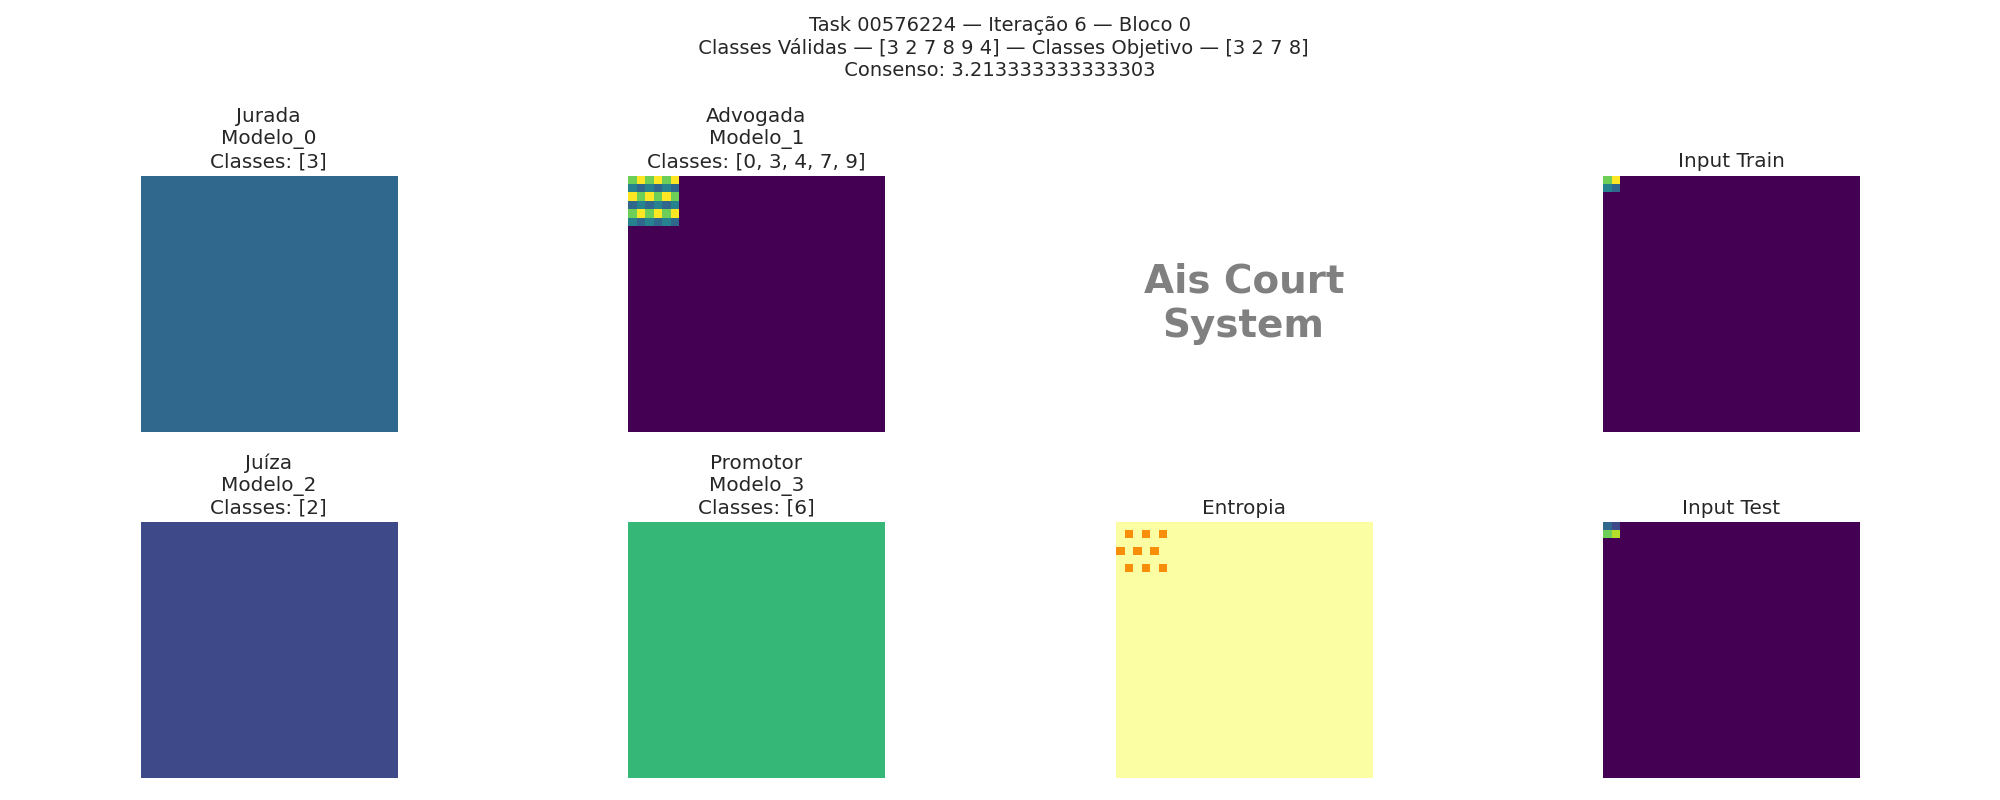
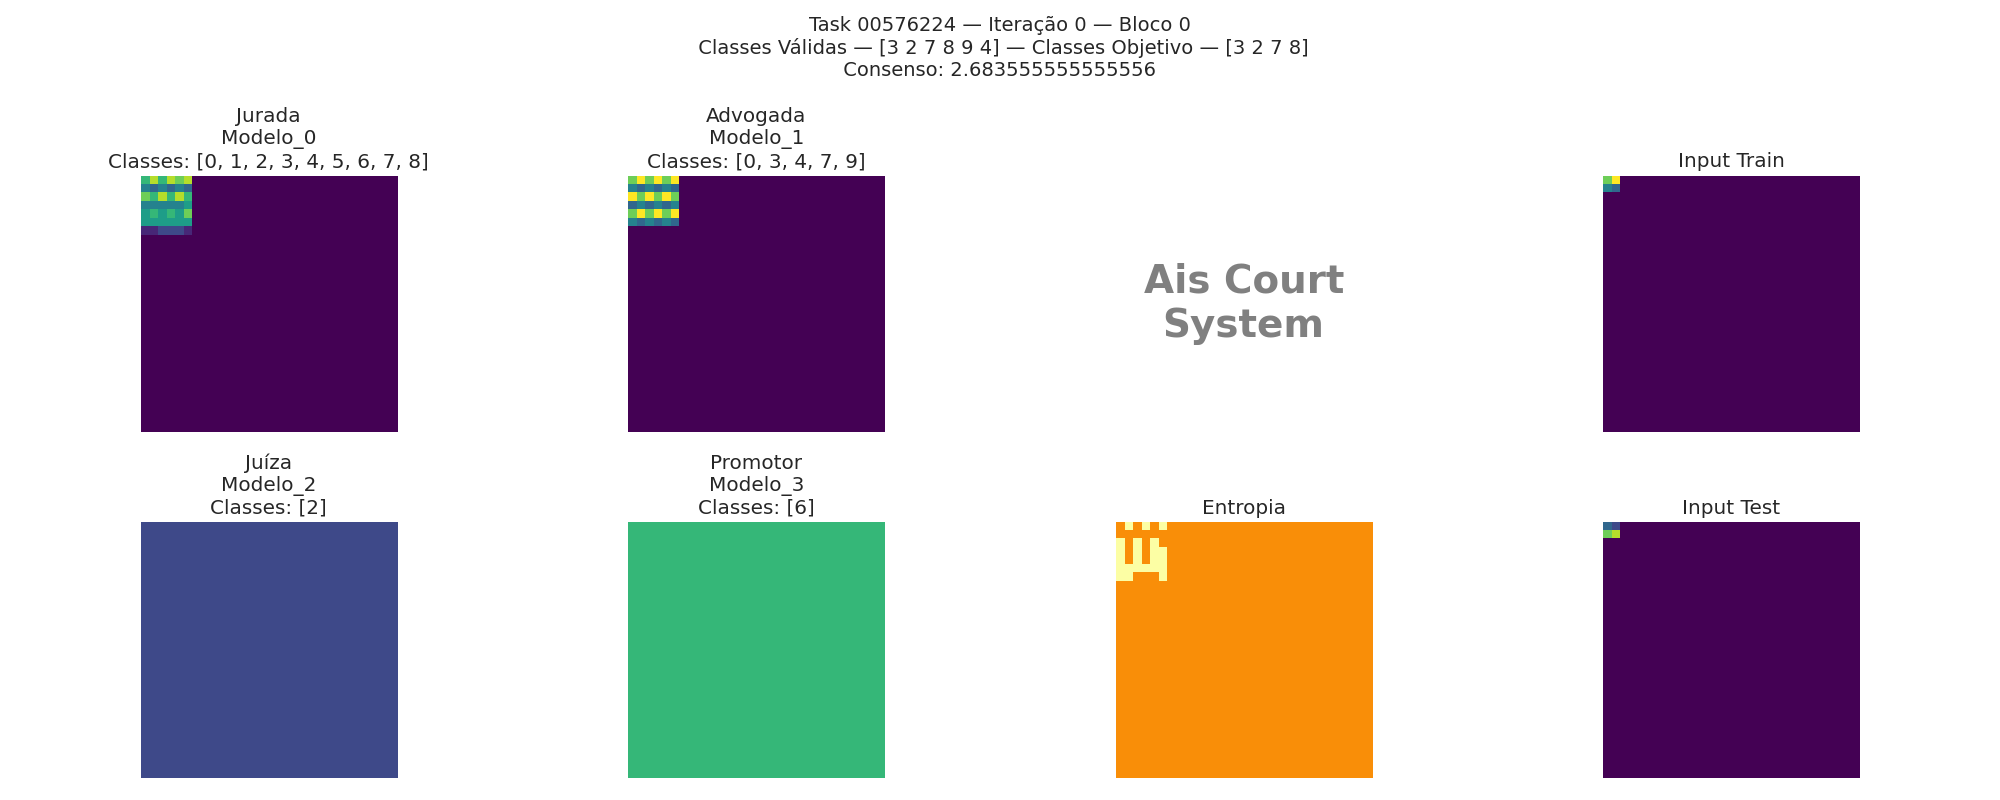
trying another dynamic

Changed region(s): [[0.062, 0.1875, 0.217, 0.5625], [0.558, 0.625, 0.713, 1.0], [0.434, 0.0625, 0.589, 0.0938]]

diff --git a/court_logic.py b/court_logic.py
@@ -82,7 +82,7 @@ def arc_court_supreme(models, X_train, y_train, y_val, X_test, task_id=None, blo
 
         # Stack para consenso
         # Durante as primeiras iterações (ou até um critério de diversidade ser atingido), só inclua 0 e 1:
-        modelos_consenso = [0, 1] if match < 0.6 else [0, 1, 2, 3]
+        modelos_consenso = [1] if match < 0.6 else [0, 1, 2, 3]
         preds_stack = tf.stack(
             [tf.squeeze(extrair_classe_cor(votos_models[f"modelo_{i}"]), axis=0) for i in modelos_consenso],
             axis=0
